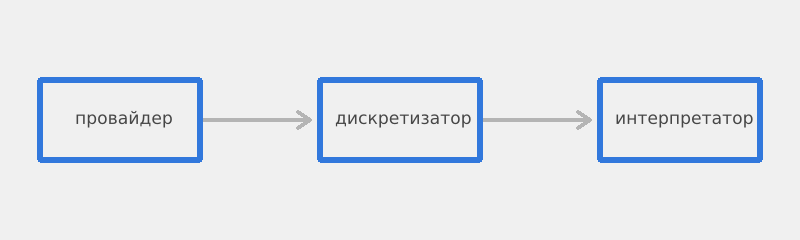
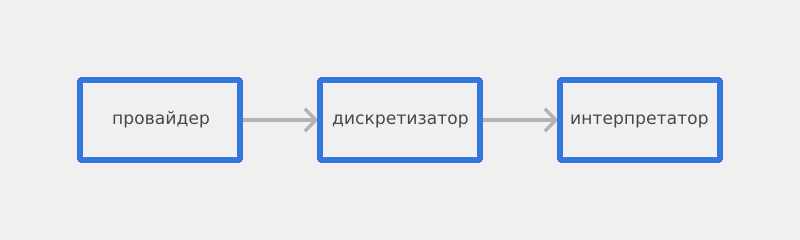
some doc updates

Changed region(s): [[0.6562, 0.3208, 0.9688, 0.7], [0.0312, 0.3208, 0.3125, 0.7], [0.375, 0.4667, 0.5938, 0.5542]]

diff --git a/examples/pipeline_diagram.rs b/examples/pipeline_diagram.rs
@@ -9,7 +9,6 @@ const H: u32 = 240;
 // Сплошной шейдер с фиксированным цветом и object_id
 struct SolidShader {
     color: [u8; 4],
-    object_id: u32,
 }
 
 impl ElementShader for SolidShader {
@@ -17,52 +16,59 @@ impl ElementShader for SolidShader {
         ShaderOutput {
             color: self.color,
             luminance: None,
-            object_id: Some(self.object_id),
+            object_id: None,
         }
     }
 }
 
 fn main() {
+    
+    let vw = 80;
+    let vh = 24;
+
+
     let mut scene = Scene {
         shader_pool: ShaderPool::new(),
         viewports: Vec::new(),
         planes: Vec::new(),
     };
 
+    
     // Шейдеры
-    let block_shader = scene.shader_pool.add(Rc::new(SolidShader {
-        color: [50, 120, 220, 255], // синий
-        object_id: 1,
-    }));
-    let arrow_shader = scene.shader_pool.add(Rc::new(SolidShader {
-        color: [180, 180, 180, 255], // серый
-        object_id: 2,
-    }));
+
+    let block_shader = SolidShader {color: [50, 120, 220, 255]};
+    
+    let arrow_shader = SolidShader {color: [180, 180, 180, 255]};
+
+
+    scene.shader_pool.add(Rc::new(block_shader));
+    scene.shader_pool.add(Rc::new(arrow_shader));
 
     // Вьюпорт на весь экран
     let vp = Viewport {
         x: 0.0,
         y: 0.0,
-        width: W as f32,
-        height: H as f32,
-        scaling_mode: ScalingMode::Stretch,
+        width: vw as f32,
+        height: vh as f32,
+        scaling_mode: ScalingMode::Cover,
         horizontal_alignment: HorizontalAlignment::Center,
         vertical_alignment: VerticalAlignment::Center,
         element_aspect_ratio: 1.0,
-        shader_map: vec![block_shader, arrow_shader],
+        shader_map: vec![0, 1],
         rotation_angle: 0.0,
     };
-    let vp_idx = scene.viewports.len() as u32;
+
     scene.viewports.push(vp);
 
     // Параметры блоков
-    let box_w = 160.0;
-    let box_h = 80.0;
-    let margin = 120.0;
-    let y = (H as f32 - box_h) / 2.0;
+    let box_w = 16.0;
+    let box_h = 8.0;
+    let margin = 8.0;
+
+    let y = (vh as f32 - box_h) / 2.0;
 
     // Позиции блоков
-    let x1 = 40.0;
+    let x1 = 8.0;
     let x2 = x1 + box_w + margin;
     let x3 = x2 + box_w + margin;
 
@@ -71,8 +77,10 @@ fn main() {
         id: 1,
         triangles: Vec::new(),
         lines: Vec::new(),
-        viewport_indices: vec![vp_idx],
+        viewport_indices: vec![0],
     };
+
+    let thickness = 4.0;
 
     // Функция для создания линий рамки блока
     let mut add_rect = |x: f32, y: f32, w: f32, h: f32| {
@@ -88,8 +96,8 @@ fn main() {
             plane.lines.push(Line {
                 id: 1,
                 vertices: [start, end],
-                local_shader_id: 0, // block_shader
-                thickness: 4.0,     // толстые линии для блоков
+                local_shader_id: 0,
+                thickness: thickness,
             });
         }
     };
@@ -101,23 +109,24 @@ fn main() {
 
     // Стрелки между блоками
     let arrow_y = y + box_h / 2.0;
+    let tip_w = 1.0;
+    let tip_h = 1.0;
+
     // Стрелка 1 → 2
     plane.lines.push(Line {
         id: 100,
         vertices: [
             Vertex::new(x1 + box_w, arrow_y),
-            Vertex::new(x2 - 10.0, arrow_y),
+            Vertex::new(x2 - (thickness / 10.0), arrow_y),
         ],
         local_shader_id: 1,
         thickness: 3.0,
     });
-    // Наконечник стрелки
-    let tip = x2 - 10.0;
     plane.lines.push(Line {
         id: 101,
         vertices: [
-            Vertex::new(tip, arrow_y),
-            Vertex::new(tip - 12.0, arrow_y - 8.0),
+            Vertex::new(x2 - (thickness / 10.0), arrow_y),
+            Vertex::new(x2 - (thickness / 10.0) - tip_h, arrow_y - tip_w),
         ],
         local_shader_id: 1,
         thickness: 3.0,
@@ -125,8 +134,8 @@ fn main() {
     plane.lines.push(Line {
         id: 102,
         vertices: [
-            Vertex::new(tip, arrow_y),
-            Vertex::new(tip - 12.0, arrow_y + 8.0),
+            Vertex::new(x2 - (thickness / 10.0), arrow_y),
+            Vertex::new(x2 - (thickness / 10.0) - tip_h, arrow_y + tip_w),
         ],
         local_shader_id: 1,
         thickness: 3.0,
@@ -137,17 +146,16 @@ fn main() {
         id: 200,
         vertices: [
             Vertex::new(x2 + box_w, arrow_y),
-            Vertex::new(x3 - 10.0, arrow_y),
+            Vertex::new(x3 - (thickness / 10.0), arrow_y),
         ],
         local_shader_id: 1,
         thickness: 3.0,
     });
-    let tip2 = x3 - 10.0;
     plane.lines.push(Line {
         id: 201,
         vertices: [
-            Vertex::new(tip2, arrow_y),
-            Vertex::new(tip2 - 12.0, arrow_y - 8.0),
+            Vertex::new(x3 - (thickness / 10.0), arrow_y),
+            Vertex::new(x3 - (thickness / 10.0) - tip_h, arrow_y - tip_w),
         ],
         local_shader_id: 1,
         thickness: 3.0,
@@ -155,8 +163,8 @@ fn main() {
     plane.lines.push(Line {
         id: 202,
         vertices: [
-            Vertex::new(tip2, arrow_y),
-            Vertex::new(tip2 - 12.0, arrow_y + 8.0),
+            Vertex::new(x3 - (thickness / 10.0), arrow_y),
+            Vertex::new(x3 - (thickness / 10.0) - tip_h, arrow_y + tip_w),
         ],
         local_shader_id: 1,
         thickness: 3.0,
@@ -200,17 +208,15 @@ fn main() {
     let box_w = 160.0;
     let box_h = 80.0;
     let y = (H as f32 - box_h) / 2.0;
-    let x1 = 40.0;
-    let x2 = x1 + box_w + 120.0;
-    let x3 = x2 + box_w + 120.0;
+    let x1 = 77.0;
+    let x2 = x1 + box_w + 80.0;
+    let x3 = x2 + box_w + 78.0;
 
     let centers = [
         (x1 + box_w / 2.0, y + box_h / 2.0),
         (x2 + box_w / 2.0, y + box_h / 2.0),
         (x3 + box_w / 2.0, y + box_h / 2.0),
     ];
-
-    let mut img = image::open("pipeline.png").expect("Failed to open PNG").to_rgba8();
 
     for (i, (cx, cy)) in centers.iter().enumerate() {
         let text = words[i];

diff --git a/examples/multiple_viewports.rs b/examples/multiple_viewports.rs
@@ -1,0 +1,60 @@
+use std::rc::Rc;
+
+use::overwhelement::*;
+
+struct SolidShader {
+    color: [u8; 4]
+}
+
+impl ElementShader for SolidShader {
+    fn shade(&self, input: &ShaderInput) -> ShaderOutput {
+        ShaderOutput { color: self.color, luminance: None, object_id: None}
+    }
+}
+
+fn make_outline(points: Vec<[f32; 2]>) -> Option<Vec<[Vertex; 2]>> {
+    if points.len() < 3 {
+        return None;
+    }
+
+    let mut lines: Vec<[Vertex; 2]> = Vec::new();
+
+    // Проходим по всем соседним парам (0-1, 1-2, 2-3, ...)
+    for window in points.windows(2) {
+        let v0 = Vertex::new(window[0][0], window[0][1]);
+        let v1 = Vertex::new(window[1][0], window[1][1]);
+        lines.push([v0, v1]);
+    }
+
+    // Замыкаем контур: последняя точка -> первая точка
+    let first = points[0];
+    let last = points[points.len() - 1];
+    lines.push([
+        Vertex::new(last[0], last[1]),
+        Vertex::new(first[0], first[1]),
+    ]);
+
+    Some(lines)
+}
+
+
+fn main() {
+
+    let mut scene = Scene {
+        shader_pool: ShaderPool::new(),
+        viewports: Vec::new(),
+        planes: Vec::new(),
+    };
+
+    let plane_color = SolidShader{
+        color: [130, 130, 230, 255]
+    };
+
+    let plane_outline = SolidShader{
+        color: [90, 90, 190, 255]
+    };
+
+    scene.shader_pool.add(Rc::new(plane_color));
+    scene.shader_pool.add(Rc::new(plane_outline));
+
+}

diff --git a/examples/plane_viewport.rs b/examples/plane_viewport.rs
@@ -37,7 +37,7 @@ fn main() {
     let plane_shader = SolidShader {color: [130u8, 130u8, 230u8, 255u8]};
 
     // Шейдер, который будет изображать обводку плоскости
-    let plane_outline = SolidShader { color: [90u8, 90u8, 190u8, 255u8]};
+    let plane_outline = SolidShader {color: [90u8, 90u8, 190u8, 255u8]};
 
     // Шейдер, которй будет изображать вьюпорт
     let viewport_shader = SolidShader {color: [140u8, 230u8, 140u8, 255u8]};